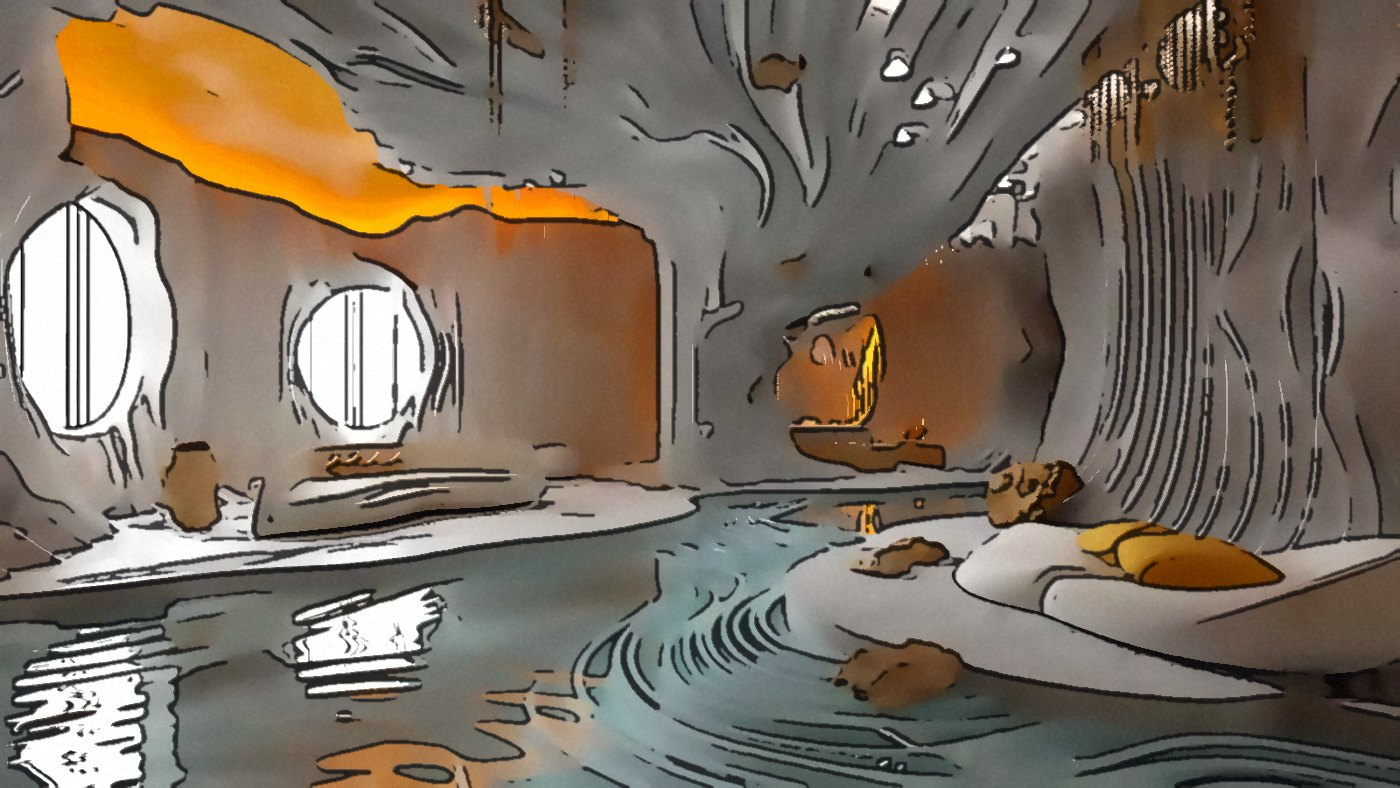
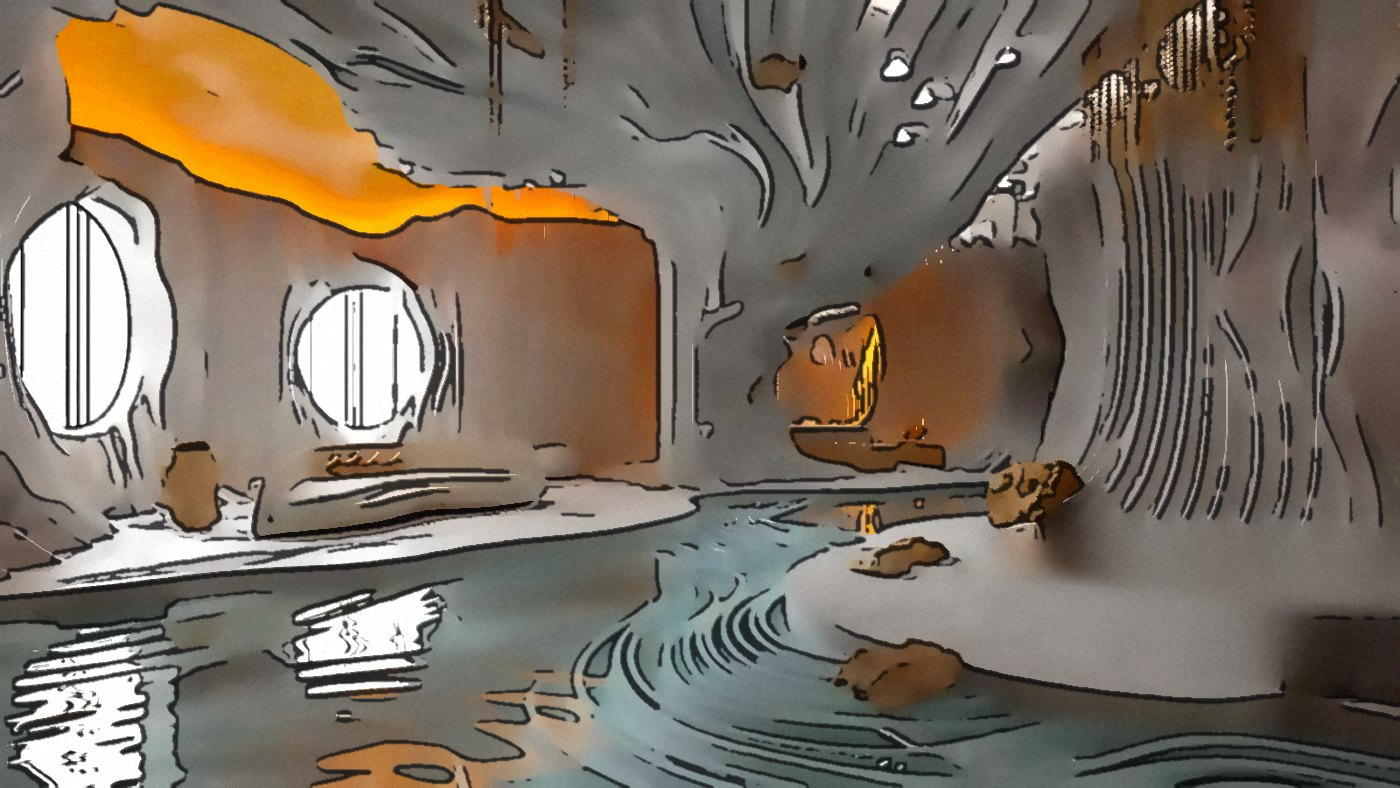
温泉大厅：恢复原来的水面，只去掉水下的躺椅
Claude-Session: https://claude.ai/code/session_01JDiALkpbsdjX6YMkLW4X8m

Changed region(s): [[0.6757, 0.6396, 1.0, 0.8832]]

diff --git a/css/style.css b/css/style.css
@@ -2164,13 +2164,7 @@ h2.sec { font-family: var(--f-hand); font-weight: 400; font-size: 28px; margin: 
 /* 温泉大更新（2026-10-18）：大厅 + 水面 + 浮动的精灵 + 醒目的计时 / 经验 + 休息室 */
 .spa-hall { position: relative; height: 420px; border: 2px solid var(--ink); border-radius: 16px; overflow: hidden; background: #2a2a30 center / cover no-repeat; box-shadow: 4px 4px 0 var(--ink); }
 .spa-hall .spa-steam { z-index: 2; }
-.spa-pool { position: absolute; left: 0; right: 0; bottom: 0; height: 34%; z-index: 3;
-  /* 水面以下是池底：手绘瓷砖 + 晃动的水光，挡住背景里的家具 */
-  background-color: #7fc4d2;
-  background-image: radial-gradient(ellipse 60px 18px at 20% 40%, rgba(255,255,255,.35), transparent 70%), radial-gradient(ellipse 80px 20px at 70% 65%, rgba(255,255,255,.3), transparent 70%), radial-gradient(ellipse 50px 14px at 45% 85%, rgba(255,255,255,.28), transparent 70%),
-    linear-gradient(rgba(35, 34, 43, .28) 2px, transparent 2px), linear-gradient(90deg, rgba(35, 34, 43, .28) 2px, transparent 2px), linear-gradient(180deg, #a8dde6, #5fa9bd);
-  background-size: 100% 100%, 100% 100%, 100% 100%, 54px 28px, 54px 28px, 100% 100%; animation: spaCaustic 8s ease-in-out infinite alternate; }
-@keyframes spaCaustic { to { background-position: 40px 6px, -50px -4px, 30px 4px, 0 0, 0 0, 0 0; } }
+.spa-pool { position: absolute; left: 0; right: 0; bottom: 0; height: 34%; z-index: 3; }
 .spa-wave { position: absolute; inset: 0; background: linear-gradient(180deg, rgba(150, 215, 230, .55), rgba(60, 140, 175, .88)); border-top: 3px solid rgba(255, 255, 255, .8); box-shadow: 0 -6px 18px rgba(170, 230, 245, .35); }
 .spa-wave::before, .spa-wave::after { content: ''; position: absolute; left: -50%; width: 200%; height: 14px; top: -8px; background: radial-gradient(ellipse at 50% 100%, rgba(255,255,255,.7) 0 30%, transparent 32%) 0 0 / 60px 14px repeat-x; animation: spaWave 6s linear infinite; }
 .spa-wave::after { top: 30%; opacity: .35; animation-duration: 9s; animation-direction: reverse; }

diff --git a/js/ui/game.js b/js/ui/game.js
@@ -3815,7 +3815,7 @@
     }
     $('pg-explore').innerHTML = exHead(on ? '正在泡温泉：留在这个页面，精灵们就会一直涨经验。离开就结束这一次。' : '把精灵放进温泉，点「开始泡温泉」。泡温泉期间要一直留在这个页面。') +
       '<div class="crumb"><button type="button" class="btn ghost" id="spa-back">‹ 返回温泉生活区</button><b>咸宁 · 温泉大厅</b></div>' +
-      '<div class="spa-hall' + (on ? ' soaking' : '') + '" style="background-image:url(images/backgrounds/spa_hall.jpg)">' + hud +
+      '<div class="spa-hall' + (on ? ' soaking' : '') + '" style="background-image:url(images/backgrounds/spa_hall.jpg?v=2)">' + hud +
         '<div class="spa-steam" aria-hidden="true"><i></i><i></i><i></i><i></i></div>' +
         '<div class="spa-pool"><div class="spa-wave" aria-hidden="true"></div>' + floats +
         (on ? '<img class="spa-player" src="images/characters/spa_' + gender() + '.webp" alt="' + esc(acc.name) + '">' : '') + '</div></div>' +

diff --git a/js/data/changelog.js b/js/data/changelog.js
@@ -14,7 +14,6 @@ var CHANGELOG = [
     '各星球页面的「捕捉」一栏改名为「探索」',
     '坎伯兰星的古代神殿有了专属音乐；马亚尔星系的星图换成手绘画风',
     '温泉里的精灵会在水面上左右漂，往哪边漂就面朝哪边',
-    '温泉大厅的水面下换成了铺着瓷砖的池底',
     '拿到精灵翻译器之后，在野外、温泉、茶室里走动的精灵偶尔会冒出气泡说话'
   ] },
   { date: '2026-10-18', title: '异常状态与温泉音乐', items: [
